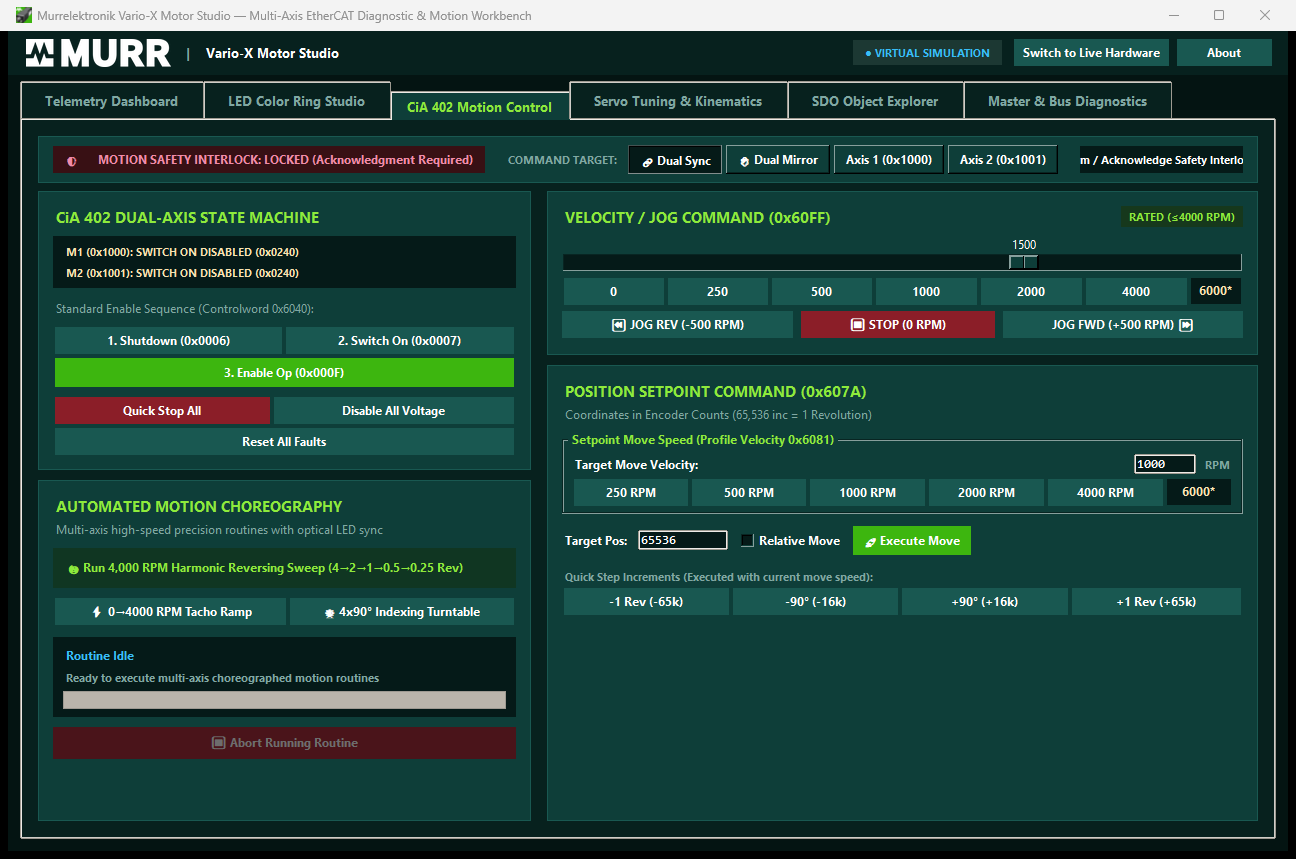
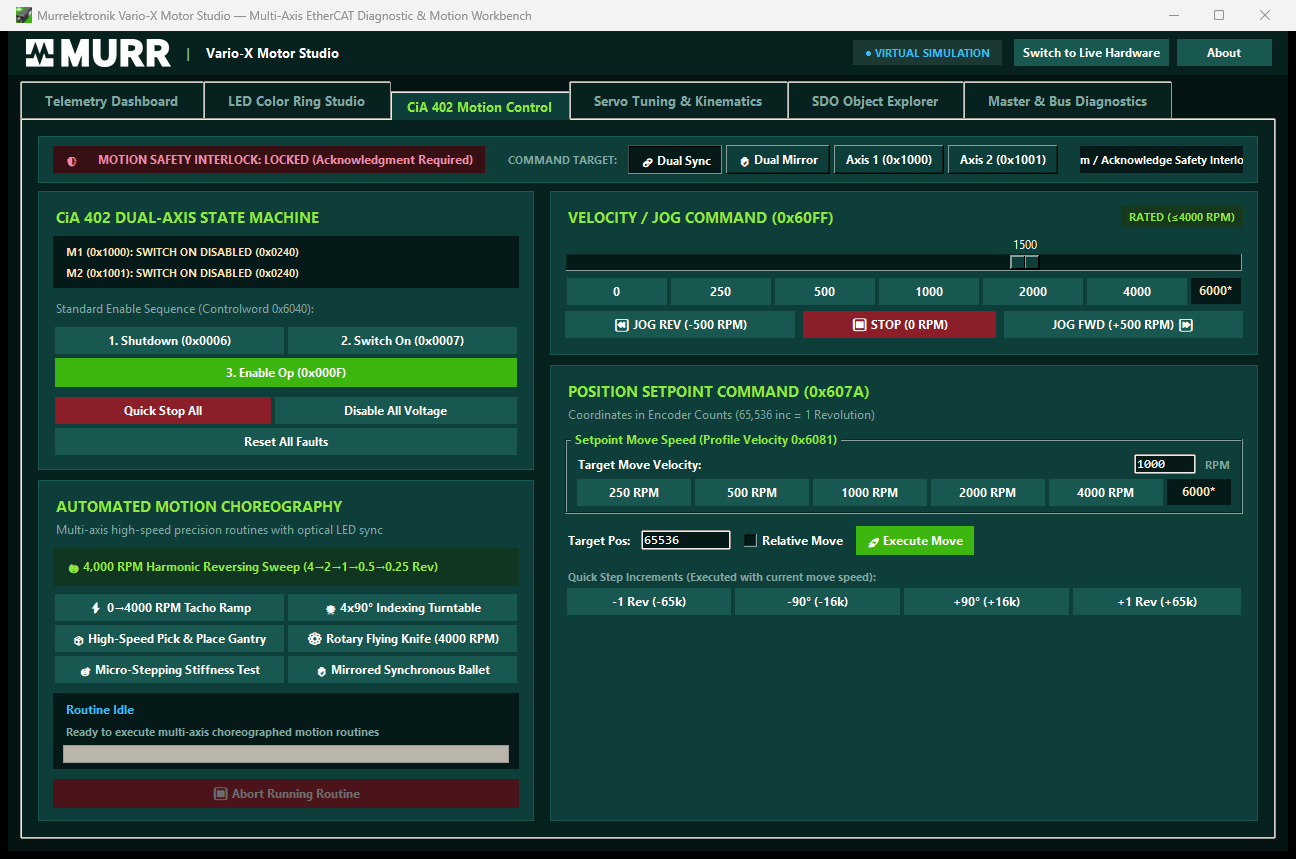
Add rich suite of 7 industrial motion choreography routines with synchronized optical LED patterns

diff --git a/gui/tabs/motion_tab.py b/gui/tabs/motion_tab.py
@@ -178,30 +178,33 @@ class MotionTab(tk.Frame):
 
         # Main Highlighted Routine: 4,000 RPM Harmonic Reversing Sweep
         btn_sweep = tk.Button(
-            card, text="🌀 Run 4,000 RPM Harmonic Reversing Sweep (4→2→1→0.5→0.25 Rev)",
+            card, text="🌀 4,000 RPM Harmonic Reversing Sweep (4→2→1→0.5→0.25 Rev)",
             bg="#103622", fg=COLOR_MURR_LIME, activebackground=COLOR_MURR_GREEN, activeforeground=COLOR_BG_DARK,
-            font=FONT_BODY_BOLD, anchor="w", padx=10, pady=8, relief="flat",
+            font=FONT_BODY_BOLD, anchor="w", padx=10, pady=7, relief="flat",
             highlightbackground=COLOR_MURR_LIME, highlightthickness=1,
             command=self.start_harmonic_sweep_routine
         )
-        btn_sweep.pack(fill="x", pady=(0, 6))
+        btn_sweep.pack(fill="x", pady=(0, 4))
 
-        # Secondary Choreography Routines Grid
+        # Secondary Choreography Routines Grid (2 columns x 3 rows)
         r_grid = tk.Frame(card, bg=COLOR_BG_CARD)
         r_grid.pack(fill="x", pady=2)
 
-        btn_tacho = ttk.Button(r_grid, text="⚡ 0→4000 RPM Tacho Ramp", style="Action.TButton", command=self.start_tachometer_ramp_routine)
-        btn_tacho.grid(row=0, column=0, sticky="ew", padx=2, pady=2)
+        ttk.Button(r_grid, text="⚡ 0→4000 RPM Tacho Ramp", style="Action.TButton", command=self.start_tachometer_ramp_routine).grid(row=0, column=0, sticky="ew", padx=2, pady=2)
+        ttk.Button(r_grid, text="🎡 4x90° Indexing Turntable", style="Action.TButton", command=self.start_turntable_routine).grid(row=0, column=1, sticky="ew", padx=2, pady=2)
+        
+        ttk.Button(r_grid, text="📦 High-Speed Pick & Place Gantry", style="Action.TButton", command=self.start_pick_and_place_routine).grid(row=1, column=0, sticky="ew", padx=2, pady=2)
+        ttk.Button(r_grid, text="⚙ Rotary Flying Knife (4000 RPM)", style="Action.TButton", command=self.start_flying_shear_routine).grid(row=1, column=1, sticky="ew", padx=2, pady=2)
 
-        btn_turntable = ttk.Button(r_grid, text="🎡 4x90° Indexing Turntable", style="Action.TButton", command=self.start_turntable_routine)
-        btn_turntable.grid(row=0, column=1, sticky="ew", padx=2, pady=2)
+        ttk.Button(r_grid, text="🎯 Micro-Stepping Stiffness Test", style="Action.TButton", command=self.start_micro_precision_routine).grid(row=2, column=0, sticky="ew", padx=2, pady=2)
+        ttk.Button(r_grid, text="🪞 Mirrored Synchronous Ballet", style="Action.TButton", command=self.start_dual_ballet_routine).grid(row=2, column=1, sticky="ew", padx=2, pady=2)
 
         r_grid.columnconfigure(0, weight=1)
         r_grid.columnconfigure(1, weight=1)
 
         # Routine Status Readout & Progress Bar
-        status_box = tk.Frame(card, bg=COLOR_BG_INPUT, padx=10, pady=8)
-        status_box.pack(fill="x", pady=(8, 4))
+        status_box = tk.Frame(card, bg=COLOR_BG_INPUT, padx=10, pady=6)
+        status_box.pack(fill="x", pady=(6, 4))
 
         tk.Label(status_box, textvariable=self.var_routine_name, bg=COLOR_BG_INPUT, fg="#38BDF8", font=FONT_BODY_BOLD).pack(anchor="w")
         tk.Label(status_box, textvariable=self.var_routine_step, bg=COLOR_BG_INPUT, fg=COLOR_TEXT_MUTED, font=FONT_BADGE).pack(anchor="w", pady=(2, 4))
@@ -608,6 +611,75 @@ class MotionTab(tk.Frame):
             (0.25, "Indexing Station 4 (270° → 360° / Home)", 0x80080002),
         ]
         self._require_safety_acknowledgment(lambda: self._start_routine_thread("🎡 4x90° Indexing Turntable (Dwell Carousel)", steps, target_rpm=1500, accel=180000, dwell_s=0.08))
+
+    def start_pick_and_place_routine(self):
+        steps = [
+            (2.0, "Traverse to Pick Station (+2.0 Rev)", 0x80080007),
+            (0.0, "Gripper Engage & Dwell (0.15s)", 0x800B0002),
+            (-4.0, "High-Speed Gantry Transfer to Place (-4.0 Rev)", 0x80080005),
+            (0.0, "Gripper Release & Place Dwell (0.15s)", 0x800B0002),
+            (2.0, "Return to Home Datum (+2.0 Rev)", 0x80080003),
+            
+            (2.0, "Cycle 2: Traverse to Pick Station (+2.0 Rev)", 0x80080007),
+            (0.0, "Cycle 2: Gripper Engage & Dwell", 0x800B0002),
+            (-4.0, "Cycle 2: Transfer to Place (-4.0 Rev)", 0x80080005),
+            (0.0, "Cycle 2: Gripper Release & Dwell", 0x800B0002),
+            (2.0, "Cycle 2: Return to Home Datum (+2.0 Rev)", 0x80080003),
+        ]
+        self._require_safety_acknowledgment(lambda: self._start_routine_thread("📦 High-Speed Pick & Place Gantry", steps, target_rpm=3800, accel=240000, dwell_s=0.12))
+
+    def start_flying_shear_routine(self):
+        steps = [
+            (1.0, "Cycle 1: Infeed Sync Traverse (+1.0 Rev)", 0x80080003),
+            (0.5, "Cycle 1: High-Speed Flying Cut (+0.5 Rev @ 4000 RPM)", 0x80040050),
+            (1.5, "Cycle 1: Outfeed Clear (+1.5 Rev)", 0x80080008),
+            
+            (1.0, "Cycle 2: Infeed Sync Traverse (+1.0 Rev)", 0x80080003),
+            (0.5, "Cycle 2: High-Speed Flying Cut (+0.5 Rev @ 4000 RPM)", 0x80040050),
+            (1.5, "Cycle 2: Outfeed Clear (+1.5 Rev)", 0x80080008),
+
+            (1.0, "Cycle 3: Infeed Sync Traverse (+1.0 Rev)", 0x80080003),
+            (0.5, "Cycle 3: High-Speed Flying Cut (+0.5 Rev @ 4000 RPM)", 0x80040050),
+            (1.5, "Cycle 3: Outfeed Clear (+1.5 Rev)", 0x80080008),
+
+            (1.0, "Cycle 4: Infeed Sync Traverse (+1.0 Rev)", 0x80080003),
+            (0.5, "Cycle 4: High-Speed Flying Cut (+0.5 Rev @ 4000 RPM)", 0x80040050),
+            (1.5, "Cycle 4: Outfeed Clear (+1.5 Rev)", 0x80080008),
+        ]
+        self._require_safety_acknowledgment(lambda: self._start_routine_thread("⚙ Rotary Flying Knife (4000 RPM)", steps, target_rpm=4000, accel=280000, dwell_s=0.04))
+
+    def start_micro_precision_routine(self):
+        steps = [
+            (0.05, "Step 1: +18.0° Micro-Increment", 0x80080004),
+            (-0.05, "Step 2: -18.0° Micro-Return", 0x80080006),
+            (0.02, "Step 3: +7.20° Sub-Degree Position", 0x80080008),
+            (-0.02, "Step 4: -7.20° Sub-Degree Return", 0x80080008),
+            (0.005, "Step 5: +1.80° Precision Vernier Step", 0x80080001),
+            (-0.005, "Step 6: -1.80° Precision Vernier Return", 0x80080001),
+            
+            (0.01, "Stiffness Dither #1 (+3.6°)", 0x800B000D),
+            (-0.01, "Stiffness Dither #1 (-3.6°)", 0x800B000D),
+            (0.01, "Stiffness Dither #2 (+3.6°)", 0x800B000D),
+            (-0.01, "Stiffness Dither #2 (-3.6°)", 0x800B000D),
+            (0.01, "Stiffness Dither #3 (+3.6°)", 0x800B000D),
+            (-0.01, "Stiffness Dither #3 (-3.6°)", 0x800B000D),
+            (0.01, "Stiffness Dither #4 (+3.6°)", 0x800B000D),
+            (-0.01, "Stiffness Dither #4 (-3.6°)", 0x800B000D),
+        ]
+        self._require_safety_acknowledgment(lambda: self._start_routine_thread("🎯 Micro-Stepping Stiffness Test", steps, target_rpm=2500, accel=300000, dwell_s=0.04))
+
+    def start_dual_ballet_routine(self):
+        steps = [
+            (3.0, "Dual Mirror Phase 1: Opposing Full 3-Turn (+3 / -3 Rev)", 0x80080004),
+            (-3.0, "Dual Mirror Phase 2: Opposing Reverse (-3 / +3 Rev)", 0x80080006),
+            (1.5, "Dual Mirror Phase 3: Synchronized 1.5-Turn Pirouette", 0x80080008),
+            (-1.5, "Dual Mirror Phase 4: Synchronized 1.5-Turn Counter", 0x80080005),
+            (0.75, "Dual Mirror Phase 5: Quick Alternating Strobe (+0.75 Rev)", 0x800B000D),
+            (-0.75, "Dual Mirror Phase 6: Quick Alternating Strobe (-0.75 Rev)", 0x800B000D),
+            (3.0, "Grand Finale: 3-Turn High-Speed Synchrony (+3.0 Rev)", 0x80040050),
+            (-3.0, "Grand Finale: 3-Turn Return to Datum (-3.0 Rev)", 0x80080001),
+        ]
+        self._require_safety_acknowledgment(lambda: self._start_routine_thread("🪞 Mirrored Synchronous Ballet", steps, target_rpm=3500, accel=250000, dwell_s=0.06))
 
     def _start_routine_thread(self, name: str, steps: List[Tuple[float, str, int]], target_rpm: int = 4000, accel: int = 200000, dwell_s: float = 0.08):
         def _worker():
